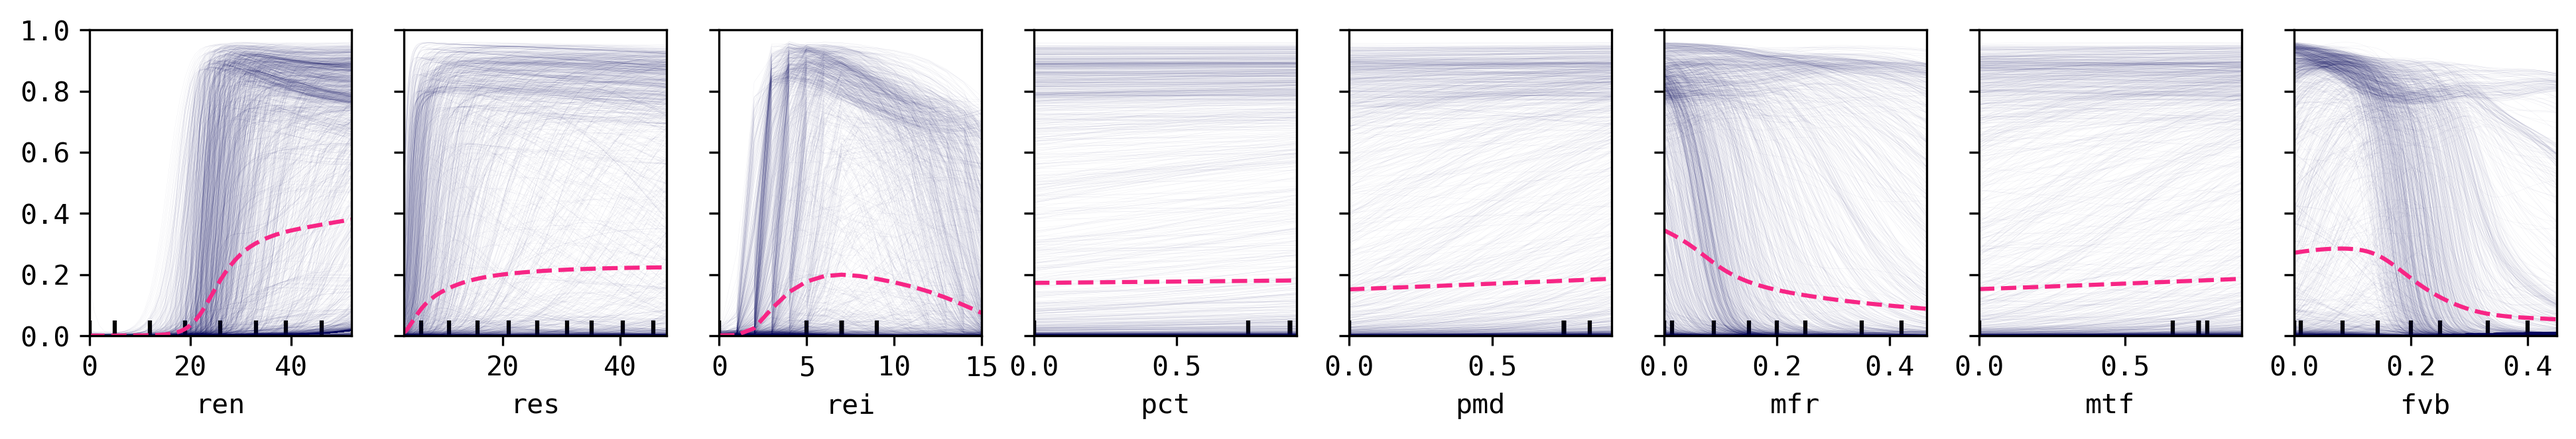
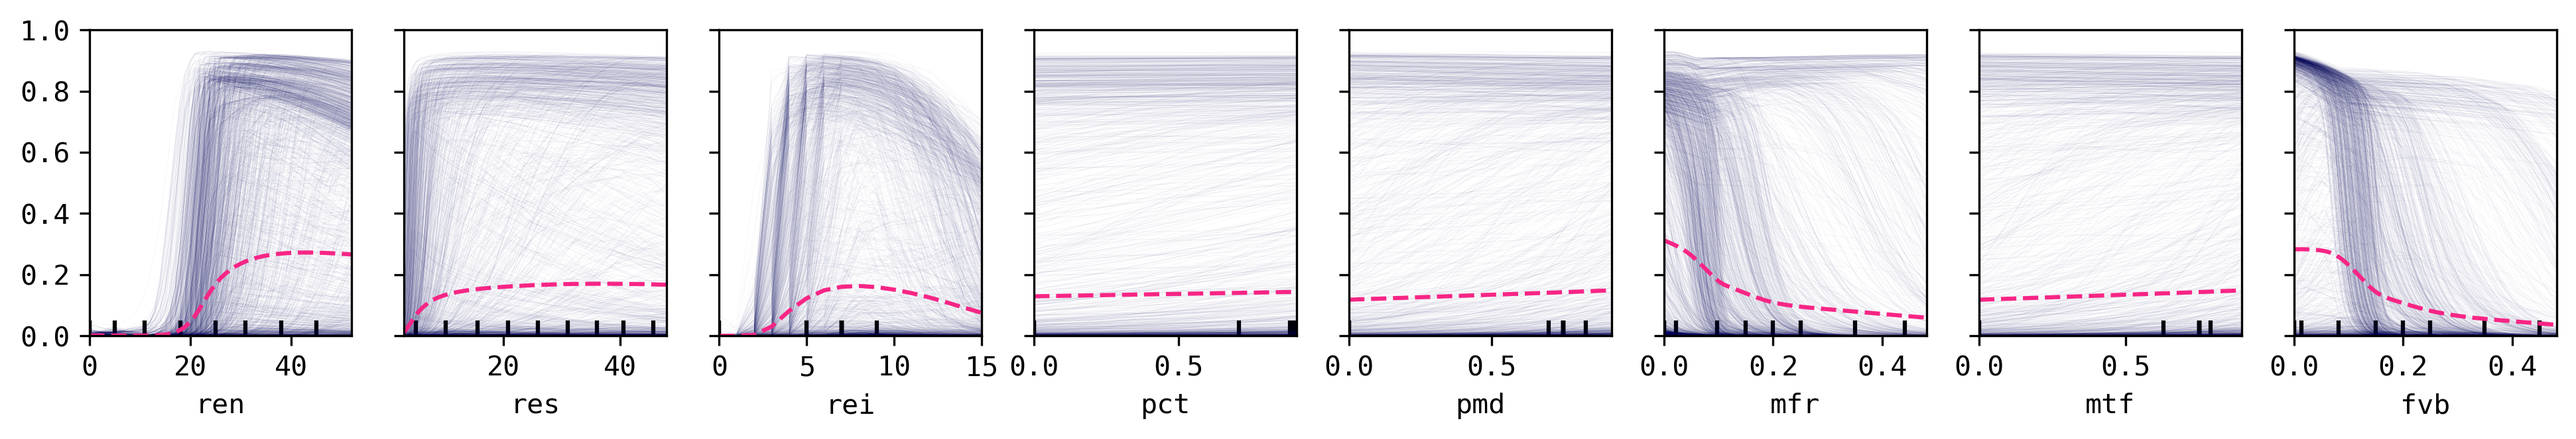
PGS Improvements on GUI and new WOP fit

diff --git a/PAN/PGS/app/app.py b/PAN/PGS/app/app.py
@@ -167,9 +167,9 @@ app.layout = html.Div([
     dbc.Row([
         dbc.Col(
             html.Div([
-                dbc.Col(html.Div(["", "CPT", html.Img(src=app.get_asset_url('HLT_50Q_10T_CPT-krs-MLR.png'), style={'width':'90%'})])),
-                dbc.Col(html.Div(["", "POE", html.Img(src=app.get_asset_url('HLT_50Q_10T_POE-krs-MLR.png'), style={'width':'90%'})])),
-                dbc.Col(html.Div(["","WOP", html.Img(src=app.get_asset_url('HLT_50Q_10T_WOP-krs-MLR.png'), style={'width':'90%'})])),
+                dbc.Col(html.Div(["", "1-CPT (R² 0.93)", html.Img(src=app.get_asset_url('HLT_50Q_10T_CPT-krs-MLR.png'), style={'width':'90%'})])),
+                dbc.Col(html.Div(["", "POE (R² 0.92)", html.Img(src=app.get_asset_url('HLT_50Q_10T_POE-krs-MLR.png'), style={'width':'90%'})])),
+                dbc.Col(html.Div(["","WOP (R² 0.88)", html.Img(src=app.get_asset_url('HLT_50Q_10T_WOP-krs-MLR.png'), style={'width':'90%'})])),
             ], style={'paddingLeft': '5%'})
         )
     ])

diff --git a/PAN/PGS/app/constants.py b/PAN/PGS/app/constants.py
@@ -10,7 +10,7 @@ SA_RANGES = {
     'rei': (1, 20, 1,  7),
     'pct': (.5, 1, .05, 0.9), 
     'pmd': (.5, 1, .05, 0.9), 
-    'mfr': (0., .5, .05, 0.1), 
+    'mfr': (0., .5, .05, 0.05), 
     'mtf': (.5, 1, .05, 0.75), 
-    'fvb': (0., .5, .05, 0.1)
+    'fvb': (0., .5, .05, 0.05)
 }
